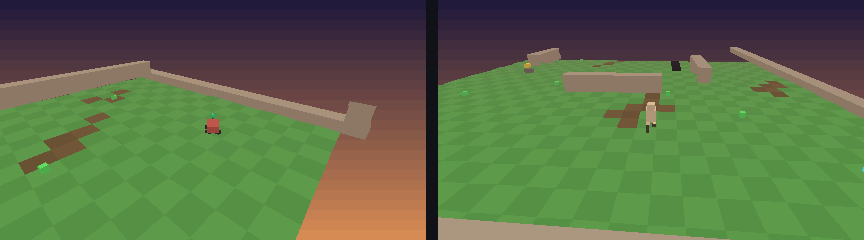
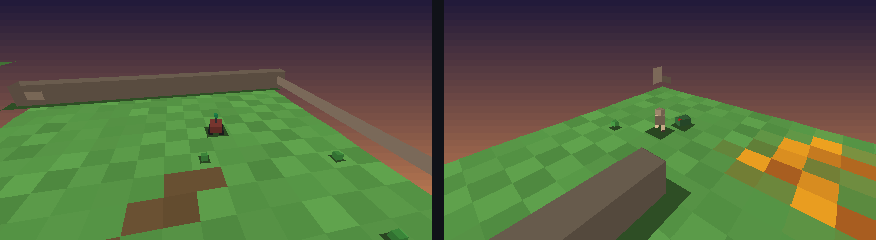
Renderer upgrade: Lambert face shading, soft shadows, ground jitter, lava glow, cloud shadows, 640-wide buffer

diff --git a/aera/viz/renderer3d.py b/aera/viz/renderer3d.py
@@ -58,7 +58,33 @@ NEAR = 0.18
 FAR = 60.0
 
 
-def render_frame(env, camera: Camera | None = None, size=(426, 240),
+def _shade(color, nx: float = 0.0, ny: float = 0.0, nz: float = 1.0):
+    """Lambert: brightness by face normal vs LIGHT. Ground (nz=1) gets full
+    sun; wall sides split into 4 distinct tones — this is where the depth
+    comes from."""
+    d = max(0.0, nx * LIGHT[0] + ny * LIGHT[1] + nz * LIGHT[2])
+    k = min(1.15, 0.60 + 0.55 * d)
+    return (min(255, int(color[0] * k)),
+            min(255, int(color[1] * k)),
+            min(255, int(color[2] * k)))
+
+
+def _jit(x: int, y: int) -> float:
+    """Deterministic per-tile brightness jitter (stable across frames)."""
+    h = ((x * 73856093) ^ (y * 19349663)) % 997
+    return 0.93 + 0.12 * (h / 997.0)
+
+
+def _dark(color, f: float):
+    """Blend toward near-black (shadows painted as solid polygons — no alpha
+    needed since the ground colour beneath is irrelevant to the eye)."""
+    return (int(color[0] * (1 - f)), int(color[1] * (1 - f)), int(color[2] * (1 - f)))
+
+
+SHADOW = (24, 22, 20)
+
+
+def render_frame(env, camera: Camera | None = None, size=(640, 360),
                  time_s: float = 0.0) -> np.ndarray:
     """Convenience wrapper: env → RGB uint8 array (H, W, 3)."""
     surf = render_scene(env.world, [env.agent], camera or Camera("chase"),
@@ -67,9 +93,14 @@ def render_frame(env, camera: Camera | None = None, size=(426, 240),
     return np.transpose(arr, (1, 0, 2)).astype(np.uint8)
 
 
-def render_scene(world, agents, camera: Camera, size=(426, 240),
+def render_scene(world, agents, camera: Camera, size=(640, 360),
                  time_s: float = 0.0) -> pygame.Surface:
-    """Render the world into a pygame Surface (the low-res chunky buffer)."""
+    """Render the world into a pygame Surface (the chunky buffer).
+
+    Two painter passes: ground tiles + shadow quads are coplanar and
+    non-overlapping, so they paint in insertion order (shadows right after
+    the ground, before anything else); everything else sorts back-to-front.
+    """
     _ensure_video()
     W, H = size
     surf = pygame.Surface(size)
@@ -77,15 +108,13 @@ def render_scene(world, agents, camera: Camera, size=(426, 240),
     eye, right, up, fwd = camera.basis(agent, world)
 
     _sky(surf)
-    faces = _gather_faces(world, agents, eye, camera, time_s)
+    flat, faces = _gather_faces(world, agents, eye, camera, time_s)
 
     tan_f = 0.62
     aspect = W / H
-    polys = []
-    for pts, color in faces:
-        scr = []
-        depth = 0.0
-        ok = True
+
+    def project(pts):
+        scr, depth, ok = [], 0.0, True
         for (x, y, z) in pts:
             q = (x - eye[0], y - eye[1], z - eye[2])
             cz = q[0] * fwd[0] + q[1] * fwd[1] + q[2] * fwd[2]
@@ -94,13 +123,21 @@ def render_scene(world, agents, camera: Camera, size=(426, 240),
                 break
             cx = q[0] * right[0] + q[1] * right[1] + q[2] * right[2]
             cy = q[0] * up[0] + q[1] * up[1] + q[2] * up[2]
-            sx = (cx / (cz * tan_f * aspect)) * (W / 2) + W / 2
-            sy = H / 2 - (cy / (cz * tan_f)) * (H / 2)
-            scr.append((float(sx), float(sy)))   # plain floats: pygame rejects np.float32 scalars
-            depth += float(cz)
-        if ok:
-            polys.append((depth / len(pts), scr, color))
+            scr.append((float((cx / (cz * tan_f * aspect)) * (W / 2) + W / 2),
+                        float(H / 2 - (cy / (cz * tan_f)) * (H / 2))))
+            depth += cz
+        return scr, (depth / max(1, len(pts))), ok
 
+    for pts, color in flat:              # coplanar: order, don't sort
+        scr, _, ok = project(pts)
+        if ok:
+            pygame.draw.polygon(surf, color, scr)
+
+    polys = []
+    for pts, color in faces:
+        scr, depth, ok = project(pts)
+        if ok:
+            polys.append((depth, scr, color))
     polys.sort(key=lambda p: -p[0])
     for depth, scr, color in polys:
         f = min(1.0, depth / FAR) ** 1.5
@@ -111,41 +148,80 @@ def render_scene(world, agents, camera: Camera, size=(426, 240),
 
 # ------------------------------------------------------------------ scene
 def _gather_faces(world, agents, eye, camera, t):
-    faces: list = []
+    flat: list = []     # coplanar ground + shadow quads: painted in order
+    faces: list = []    # everything else: painter-sorted
     cx = agents[0].x if agents else world.w / 2
     cy = agents[0].y if agents else world.h / 2
     R = 17
     x0, x1 = int(max(0, cx - R)), int(min(world.w - 1, cx + R))
     y0, y1 = int(max(0, cy - R)), int(min(world.h - 1, cy + R))
 
-    # ground tiles
+    # ground tiles: checker pair × deterministic jitter, warm glow near lava
+    grid = world.terrain.grid
     for gy in range(y0, y1 + 1):
         for gx in range(x0, x1 + 1):
-            kind = int(world.terrain.grid[gy, gx])
+            kind = int(grid[gy, gx])
             c1, c2 = TERRAIN_COLORS[kind]
             col = c1 if (gx + gy) % 2 == 0 else c2
             if kind == 3:   # lava pulse
                 pulse = 0.5 + 0.5 * math.sin(t * 4.0 + gx * 1.7 + gy * 2.3)
                 col = (int(238 * (0.7 + 0.3 * pulse)), int(92 + 70 * pulse), 32)
-            faces.append(([(gx, gy, 0.0), (gx + 1, gy, 0.0),
-                           (gx + 1, gy + 1, 0.0), (gx, gy + 1, 0.0)], col))
+            else:
+                j = _jit(gx, gy)
+                col = (int(col[0] * j), int(col[1] * j), int(col[2] * j))
+                if kind != 4:   # lava glow bleeds onto neighbours (not pits)
+                    near = False
+                    for ddx, ddy in ((1, 0), (-1, 0), (0, 1), (0, -1)):
+                        nx2, ny2 = gx + ddx, gy + ddy
+                        if 0 <= nx2 < world.w and 0 <= ny2 < world.h \
+                                and int(grid[ny2, nx2]) == 3:
+                            near = True
+                            break
+                    if near:
+                        pulse = 0.35 + 0.25 * math.sin(t * 3.0 + gx + gy)
+                        col = (int(col[0] + (210 - col[0]) * pulse * 0.45),
+                               int(col[1] * (1 - 0.18 * pulse)),
+                               int(col[2] * (1 - 0.30 * pulse)))
+            flat.append(([(gx, gy, 0.0), (gx + 1, gy, 0.0),
+                          (gx + 1, gy + 1, 0.0), (gx, gy + 1, 0.0)], col))
 
-    # walls (boxes)
+    # walls: directional drop shadow on the ground, then lit box
     for (rx, ry, rw, rh) in world.walls:
         if rx + rw < x0 - 1 or rx > x1 + 1 or ry + rh < y0 - 1 or ry > y1 + 1:
             continue
         if rw > world.w + 1:   # border walls look better low
-            _box(faces, rx, ry, rw, rh, 0.0, 0.55, WALL, WALL_SIDE)
+            z1 = 0.55
         else:
-            _box(faces, rx, ry, rw, rh, 0.0, 1.25, WALL, WALL_SIDE)
+            z1 = 1.25
+        # light comes from (0.45,-0.5): shadows fall opposite, length ∝ height
+        ox, oy = -0.42 * z1, 0.47 * z1
+        scx = min(world.w - 1, max(0, int(rx + rw / 2)))
+        scy = min(world.h - 1, max(0, int(ry + rh / 2)))
+        base = TERRAIN_COLORS[int(world.terrain_at(scx, scy))][0]
+        flat.append(([(rx + ox, ry + oy, 0.0), (rx + rw + ox, ry + oy, 0.0),
+                      (rx + rw + ox, ry + rh + oy, 0.0),
+                      (rx + ox, ry + rh + oy, 0.0)], _dark(base, 0.5)))
+        _box(faces, rx, ry, rw, rh, 0.0, z1, WALL, WALL_SIDE)
 
-    # entities near the agent
+    # drifting cloud shadows: ground-darkened quads under each puff
+    for (ccx, ccy, _z, cs) in _cloud_puffs(world, t):
+        scx2 = min(world.w - 1, max(0, int(ccx)))
+        scy2 = min(world.h - 1, max(0, int(ccy)))
+        base = TERRAIN_COLORS[int(world.terrain_at(scx2, scy2))][0]
+        r = cs * 1.3
+        flat.append(([(ccx - r, ccy - r * 0.6, 0.0), (ccx + r, ccy - r * 0.6, 0.0),
+                      (ccx + r, ccy + r * 0.6, 0.0), (ccx - r, ccy + r * 0.6, 0.0)],
+                     _dark(base, 0.28)))
+
+    # entities near the agent (blob shadow first, then the lit body)
     for i, f in enumerate(world.foods):
         if f.active and abs(f.x - cx) < R and abs(f.y - cy) < R:
             z = 0.18 + 0.06 * math.sin(t * 3 + i)
+            _shadow(flat, world, f.x, f.y, 0.20)
             _cube(faces, f.x, f.y, z, 0.22, FOOD)
     for i, tool in enumerate(world.tools):
         if not tool.taken and abs(tool.x - cx) < R and abs(tool.y - cy) < R:
+            _shadow(flat, world, tool.x, tool.y, 0.38)
             _cube(faces, tool.x, tool.y, 0.1, 0.5, (120, 110, 96))     # pedestal
             z = 0.75 + 0.12 * math.sin(t * 2.5 + i)
             _cube(faces, tool.x, tool.y, z, 0.28, TOOL)
@@ -157,29 +233,45 @@ def _gather_faces(world, agents, eye, camera, t):
                  BEACON, tuple(int(c * pulse) for c in BEACON))
 
     for a in agents:
+        _shadow(flat, world, a.x, a.y, 0.5)
         if a.is_walker:
             _walker(faces, a, t)
         else:
             _rover(faces, a)
     for p in getattr(world, "predators", []):
+        _shadow(flat, world, p.x, p.y, 0.42)
         _alien(faces, p, t)
-    return faces
+    return flat, faces
 
 
 # ------------------------------------------------------------- primitives
+def _shadow(flat, world, x, y, r):
+    """Blob shadow: the ground colour beneath, darkened — reads as a soft
+    shadow on any terrain instead of a black hole."""
+    base = TERRAIN_COLORS[int(world.terrain_at(x, y))][0]
+    flat.append(([(x - r, y - r, 0.0), (x + r, y - r, 0.0),
+                  (x + r, y + r, 0.0), (x - r, y + r, 0.0)],
+                 _dark(base, 0.55)))
+
+
 def _box(faces, x, y, w, h, z0, z1, top, side):
     p = [(x, y), (x + w, y), (x + w, y + h), (x, y + h)]
     faces.append(([(p[0][0], p[0][1], z1), (p[1][0], p[1][1], z1),
-                   (p[2][0], p[2][1], z1), (p[3][0], p[3][1], z1)], top))
+                   (p[2][0], p[2][1], z1), (p[3][0], p[3][1], z1)],
+                  _shade(top, 0.0, 0.0, 1.0)))
+    # sides face -y, +x, +y, -x — four distinct Lambert tones
+    normals = ((0.0, -1.0), (1.0, 0.0), (0.0, 1.0), (-1.0, 0.0))
     for i in range(4):
         a, b = p[i], p[(i + 1) % 4]
+        nx, ny = normals[i]
         faces.append(([(a[0], a[1], z0), (b[0], b[1], z0),
-                       (b[0], b[1], z1), (a[0], a[1], z1)], side))
+                       (b[0], b[1], z1), (a[0], a[1], z1)],
+                      _shade(side, nx, ny, 0.0)))
 
 
 def _cube(faces, x, y, z, s, color):
     _box(faces, x - s / 2, y - s / 2, s, s, z - s / 2, z + s / 2, color,
-         tuple(int(c * 0.78) for c in color))
+         tuple(int(c * 0.85) for c in color))
 
 
 def _segment(faces, a, b, width, color):
@@ -210,16 +302,23 @@ def _segment(faces, a, b, width, color):
 
 
 def _obb(faces, cx, cy, fx, sy_, hf, hs, z0, z1, top, side):
-    """Oriented box: centre (cx,cy), axes f (facing) and s (side)."""
+    """Oriented box: centre (cx,cy), axes f (facing) and s (side); sides
+    shaded along their world normals (-s, +f, +s, -f)."""
     p = []
     for (df, ds) in ((-hf, -hs), (hf, -hs), (hf, hs), (-hf, hs)):
         p.append((cx + fx[0] * df + sy_[0] * ds, cy + fx[1] * df + sy_[1] * ds))
     faces.append(([(p[0][0], p[0][1], z1), (p[1][0], p[1][1], z1),
-                   (p[2][0], p[2][1], z1), (p[3][0], p[3][1], z1)], top))
+                   (p[2][0], p[2][1], z1), (p[3][0], p[3][1], z1)],
+                  _shade(top, 0.0, 0.0, 1.0)))
+    # sides face -s, +f, +s, -f (s = (-fy, fx) is passed in as sy_)
+    normals = ((-sy_[0], -sy_[1]), (fx[0], fx[1]),
+               (sy_[0], sy_[1]), (-fx[0], -fx[1]))
     for i in range(4):
         a, b = p[i], p[(i + 1) % 4]
+        nx, ny = normals[i]
         faces.append(([(a[0], a[1], z0), (b[0], b[1], z0),
-                       (b[0], b[1], z1), (a[0], a[1], z1)], side))
+                       (b[0], b[1], z1), (a[0], a[1], z1)],
+                      _shade(side, nx, ny, 0.0)))
 
 
 # ----------------------------------------------------------------- bodies
@@ -286,11 +385,29 @@ def _alien(faces, p, t):
 # ------------------------------------------------------------------ sky/fog
 def _sky(surf):
     W, H = surf.get_size()
-    steps = 24
+    steps = 36
     for i in range(steps):
         k = i / (steps - 1)
         col = tuple(int(SKY_TOP[j] + (SKY_HOR[j] - SKY_TOP[j]) * k) for j in range(3))
+        if k > 0.82:      # haze band melts into the fog colour at the horizon
+            hz = (k - 0.82) / 0.18
+            col = tuple(int(col[j] + (FOG[j] - col[j]) * hz) for j in range(3))
         pygame.draw.rect(surf, col, (0, int(i * H / steps), W, H // steps + 1))
+
+
+def _cloud_puffs(world, t):
+    """Deterministic drifting cloud positions (cx, cy, z, size)."""
+    puffs = []
+    for i in range(8):
+        h = _jit(i * 31 + 7, i * 17 + 3)
+        base_x = h * (world.w + 80.0) - 40.0
+        base_y = -20.0 + h * (world.h + 40.0)
+        z = 10.0 + h * 8.0
+        cx = ((base_x + t * (0.5 + h)) % (world.w + 80.0)) - 40.0
+        cy = base_y + 4.0 * math.sin(t * 0.05 + i)
+        puffs.append((cx, cy, z, 4.0 + h * 5.0))
+    return puffs
+
 
 
 def _fog_blend(color, f):

diff --git a/aera/viz/streamer.py b/aera/viz/streamer.py
@@ -39,7 +39,7 @@ h3{color:#8c8c87;font-weight:normal}
 class FrameStreamer:
     """Publish frames/events from the training thread; serve them via HTTP."""
 
-    def __init__(self, port: int = 8001, size=(426, 240), camera="chase"):
+    def __init__(self, port: int = 8001, size=(640, 360), camera="chase"):
         self.port = port
         self.size = size
         self.cam_mode = camera
@@ -136,7 +136,7 @@ class StreamViewer:
     .tick(env), .quit_requested and .chart.push so the trainer doesn't care
     which one is attached."""
 
-    def __init__(self, port: int = 8001, size=(426, 240), camera: str = "chase"):
+    def __init__(self, port: int = 8001, size=(640, 360), camera: str = "chase"):
         from .hud import Chart
         self.streamer = FrameStreamer(port, size, camera)
         self.streamer.start()

diff --git a/aera/viz/viewer.py b/aera/viz/viewer.py
@@ -124,9 +124,9 @@ class Viewer:
         panel_w = 360
         vw, vh = W - panel_w, H
 
-        # chunky 3D: render at 1/3 then nearest-upscale
+        # chunky 3D: render at 1/2 window size, nearest-upscale for the look
         small = render_scene(env.world, [env.agent], self.camera,
-                             (max(64, vw // 3), max(64, vh // 3)),
+                             (max(64, vw // 2), max(64, vh // 2)),
                              time_s=pygame.time.get_ticks() / 1000.0)
         frame = pygame.transform.scale(small, (vw, vh))
         self.screen.blit(frame, (0, 0))

diff --git a/aera/viz/record.py b/aera/viz/record.py
@@ -10,7 +10,7 @@ from ..viz.renderer3d import render_frame
 
 
 def record_gif(env, policy, path: str, steps: int = 400, fps: int = 20,
-               mode: str = "chase", size=(426, 240), seed: int = 0) -> str:
+               mode: str = "chase", size=(640, 360), seed: int = 0) -> str:
     from PIL import Image
 
     frames = []

diff --git a/aera/env.py b/aera/env.py
@@ -257,7 +257,7 @@ class AeraEnv(gym.Env):
         if self.render_mode != "rgb_array":
             return None
         from .viz.renderer3d import render_frame
-        return render_frame(self, camera=None, size=(426, 240))
+        return render_frame(self, camera=None, size=(640, 360))
 
     def close(self):
         pass
